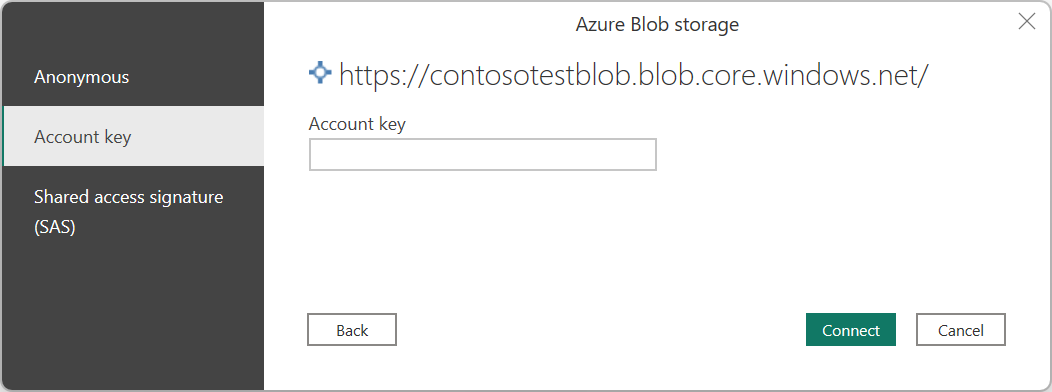
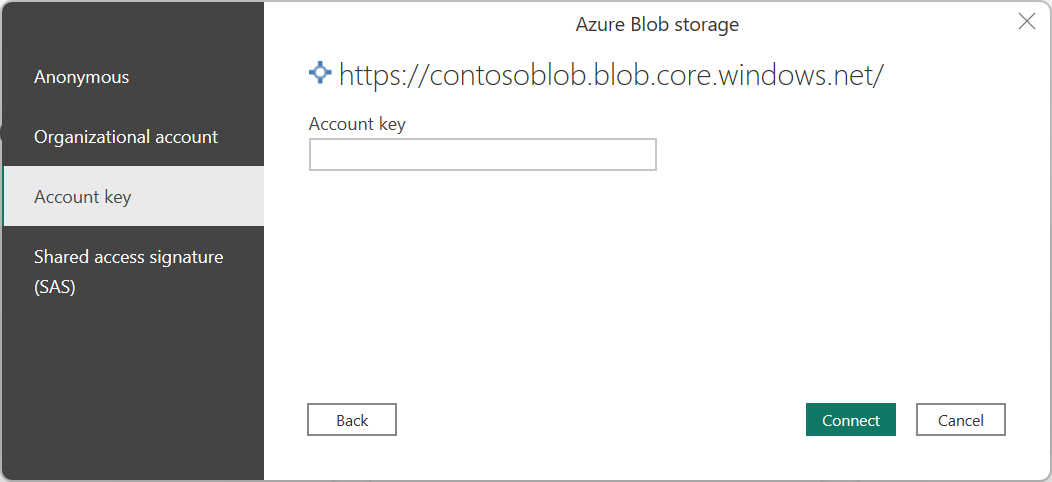
Updated Azure Blobs article authentication info

diff --git a/powerquery-docs/connectors/azure-blob-storage.md b/powerquery-docs/connectors/azure-blob-storage.md
@@ -4,7 +4,7 @@ description: Includes basic information, prerequisites, and information on how t
 
 author: DougKlopfenstein
 ms.topic: conceptual
-ms.date: 3/26/2024
+ms.date: 10/4/2024
 ms.author: dougklo
 
 ---
@@ -46,11 +46,11 @@ To connect to Azure Blob Storage:
 
     :::image type="content" source="./media/azure-blob-storage/enter-account-name.png" alt-text="Screenshot of the Azure Blob Storage dialog box where you enter the account name or the URL.":::
 
-3. If you're connecting to this account for the first time, select either the **Anonymous**, **Account key**, or **Shared access signature (SAS)** authentication method to sign into the Azure Blob Storage account. More information: [Copy your account key from Azure Blob Storage](#copy-your-account-key-from-azure-blob-storage)
+3. If you're connecting to this account for the first time, select either the **Anonymous**, **Organizational account**, **Account key**, or **Shared access signature (SAS)** authentication method to sign into the Azure Blob Storage account. More information: [Copy your account key from Azure Blob Storage](#copy-your-account-key-from-azure-blob-storage)
 
    :::image type="content" source="./media/azure-blob-storage/sign-in-desktop.png" alt-text="Screenshot of the sign in dialog box for Azure Blob Storage, with the account key authentication method selected.":::
 
-   For more information about using and managing authentication, go to [Authentication with a data source](../connectorauthentication.md).
+   For more information about using and managing authentication, go to [Authentication in desktop apps](../connectorauthentication.md).
 
 4. Select **Connect**.
 
